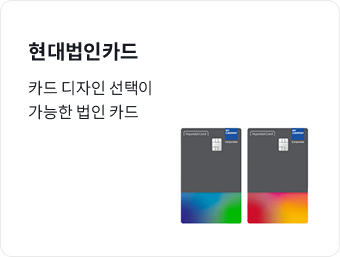
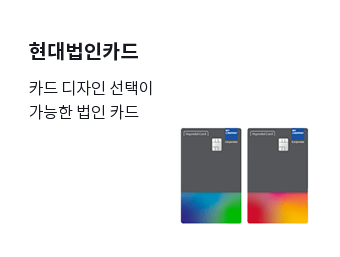
[DT-305] 메인 이벤트 영역 롤링 배너 수정

Changed region(s): [[0.0882, 0.1556, 0.4118, 0.249], [0.0882, 0.3113, 0.4706, 0.3735], [0.0882, 0.4047, 0.4118, 0.4669]]

diff --git a/src/views/main/MainHome.vue b/src/views/main/MainHome.vue
@@ -1005,7 +1005,7 @@ export default {
                         <div :class="$style['event-banner__block']">
                           <div :class="$style['event-banner__img']">
                             <img
-                              :src="`${BASE_URL}images/_dummy/banner-010.png`"
+                              :src="`${BASE_URL}images/_dummy/banner-012.png`"
                               @error="
                                 (e) => {
                                   e.target.parentNode.classList.add('is-error');
@@ -1023,7 +1023,7 @@ export default {
                         <div :class="$style['event-banner__block']">
                           <div :class="$style['event-banner__img']">
                             <img
-                              :src="`${BASE_URL}images/_dummy/banner-009.png`"
+                              :src="`${BASE_URL}images/_dummy/banner-011.png`"
                               @error="
                                 (e) => {
                                   e.target.parentNode.classList.add('is-error');
@@ -1047,7 +1047,7 @@ export default {
                         <div :class="$style['event-banner__block']">
                           <div :class="$style['event-banner__img']">
                             <img
-                              :src="`${BASE_URL}images/_dummy/banner-010.png`"
+                              :src="`${BASE_URL}images/_dummy/banner-012.png`"
                               @error="
                                 (e) => {
                                   e.target.parentNode.classList.add('is-error');

diff --git a/src/views/uiGuide/GuideIndex.vue b/src/views/uiGuide/GuideIndex.vue
@@ -409,6 +409,10 @@ const datas = () => [
             date: '2023.10.18',
             text: '공동인증서 버튼 문구 수정',
           },
+          {
+            date: '2023.10.19',
+            text: '이벤트 영역 배너 타입 수정',
+          },
         ],
       },
     ],

diff --git a/src/assets/scss/views/main/MainHome.scss b/src/assets/scss/views/main/MainHome.scss
@@ -480,6 +480,8 @@
 
 .event-banner {
   position: relative;
+  border: 1px solid #eaeaea;
+  border-radius: 12px;
 
   &__block {
     position: relative;
